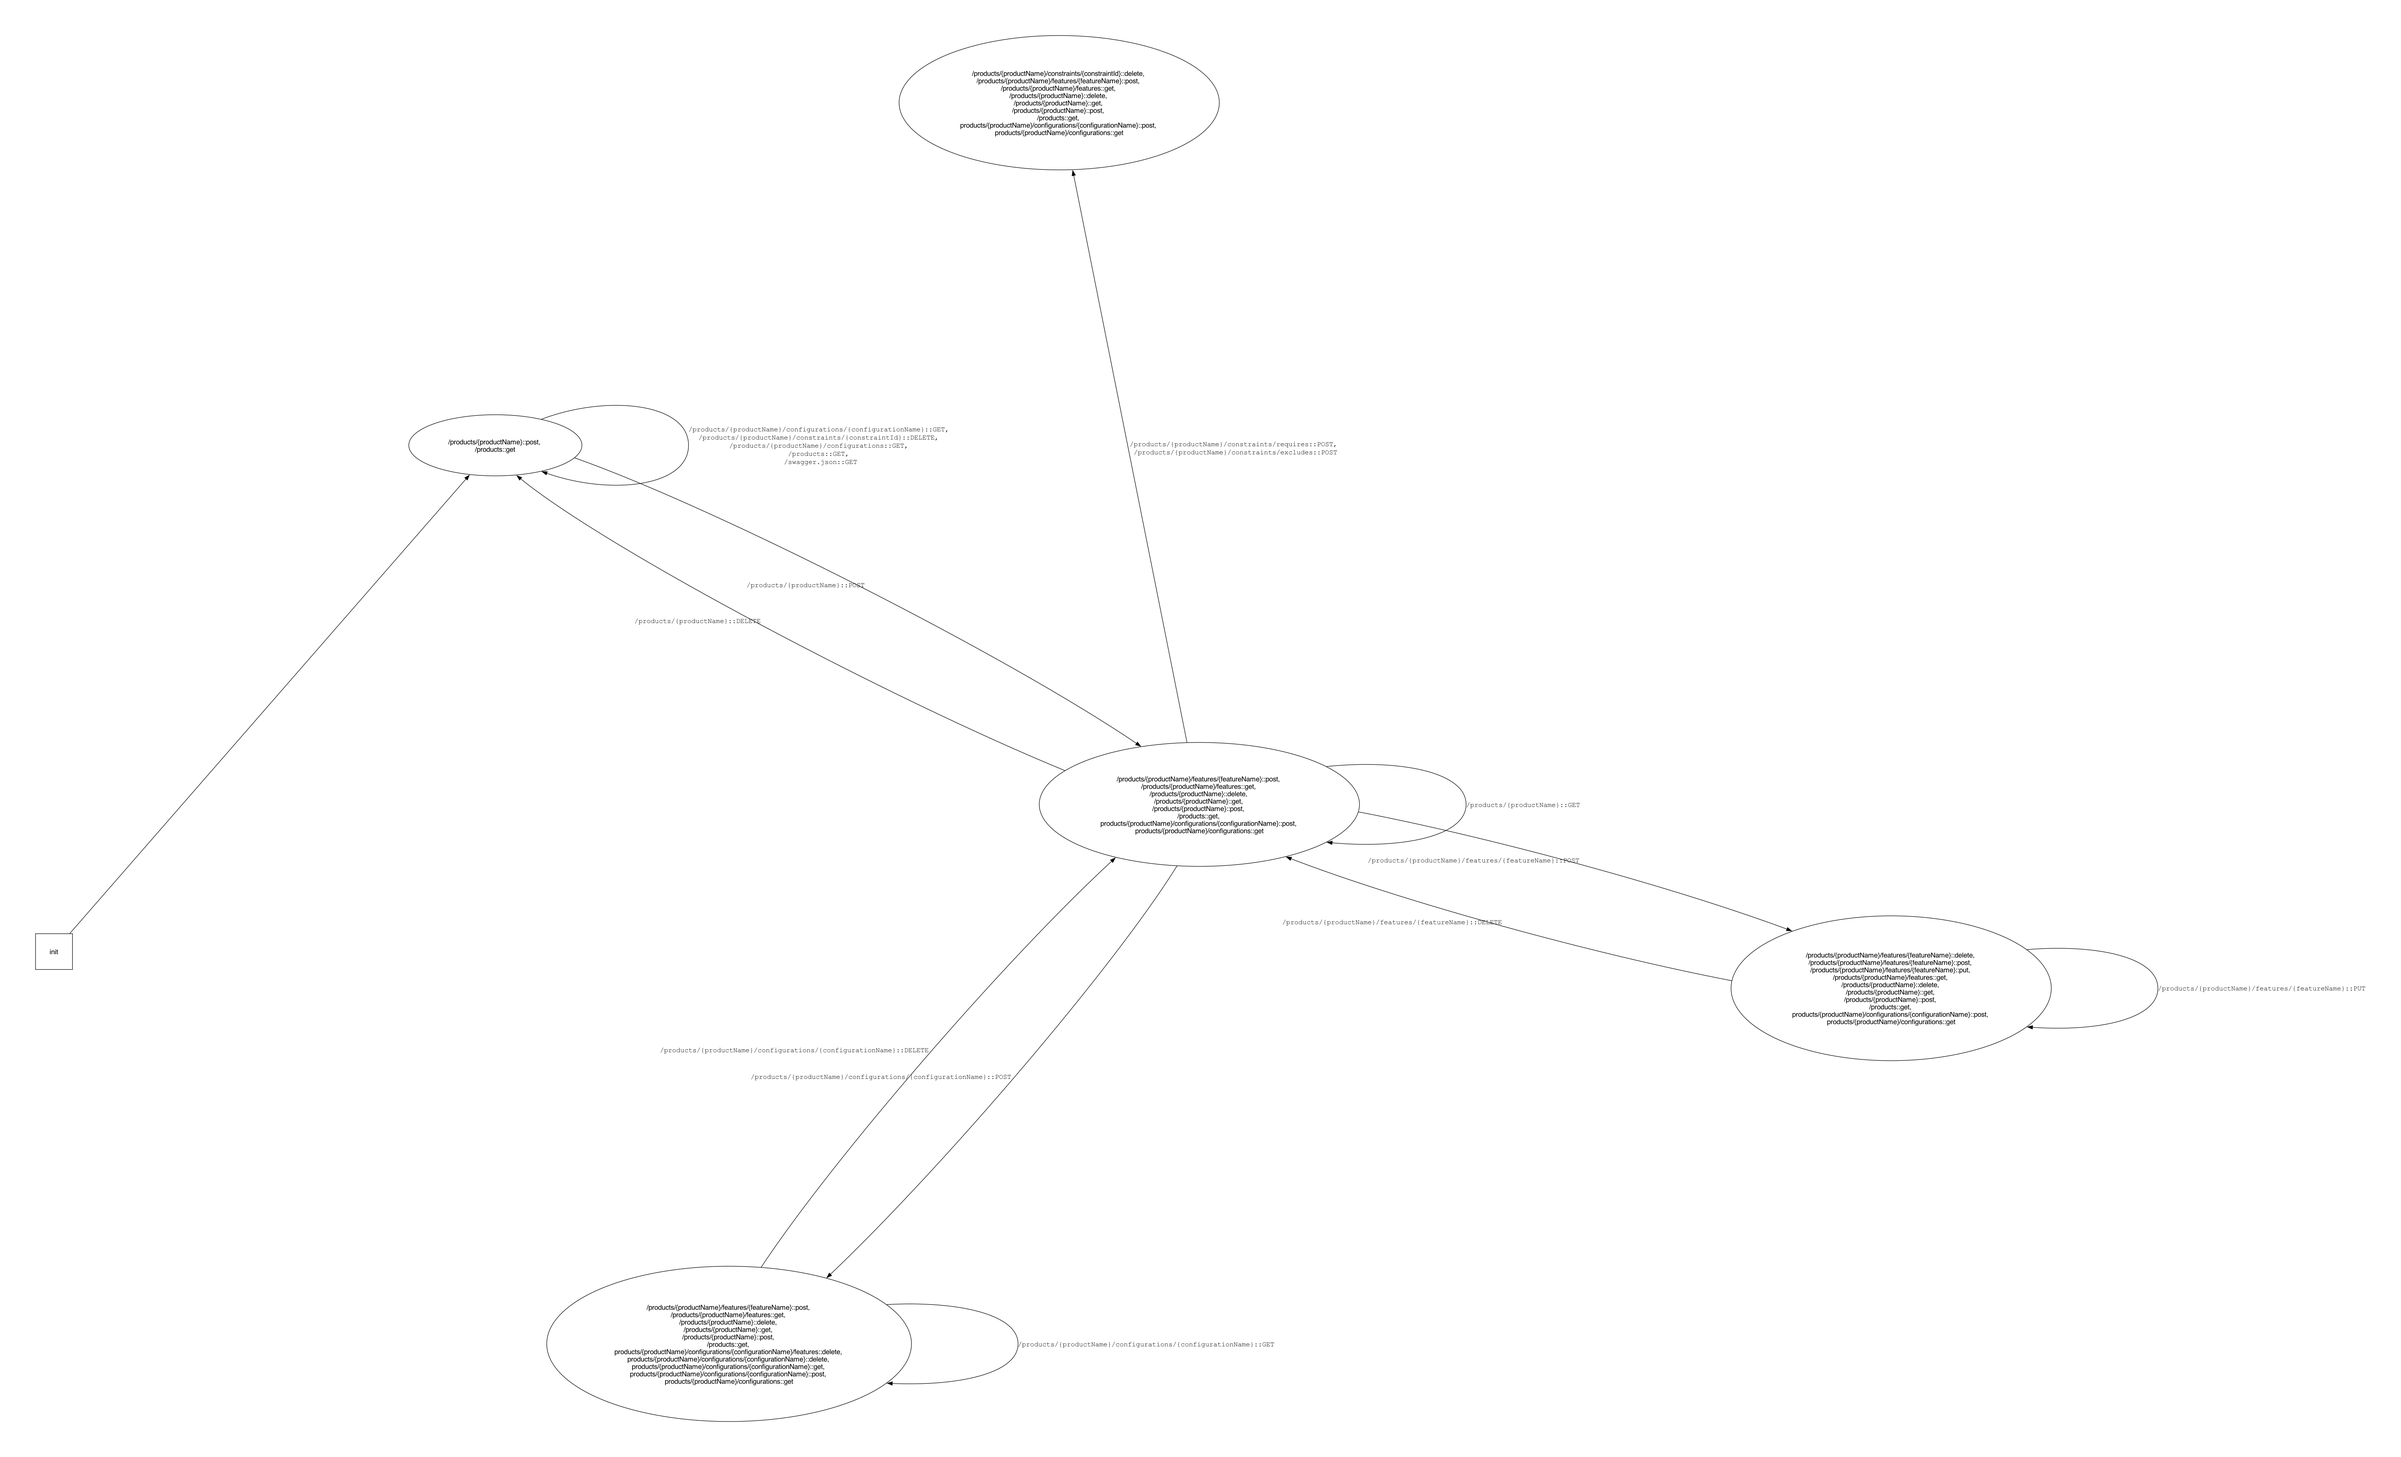
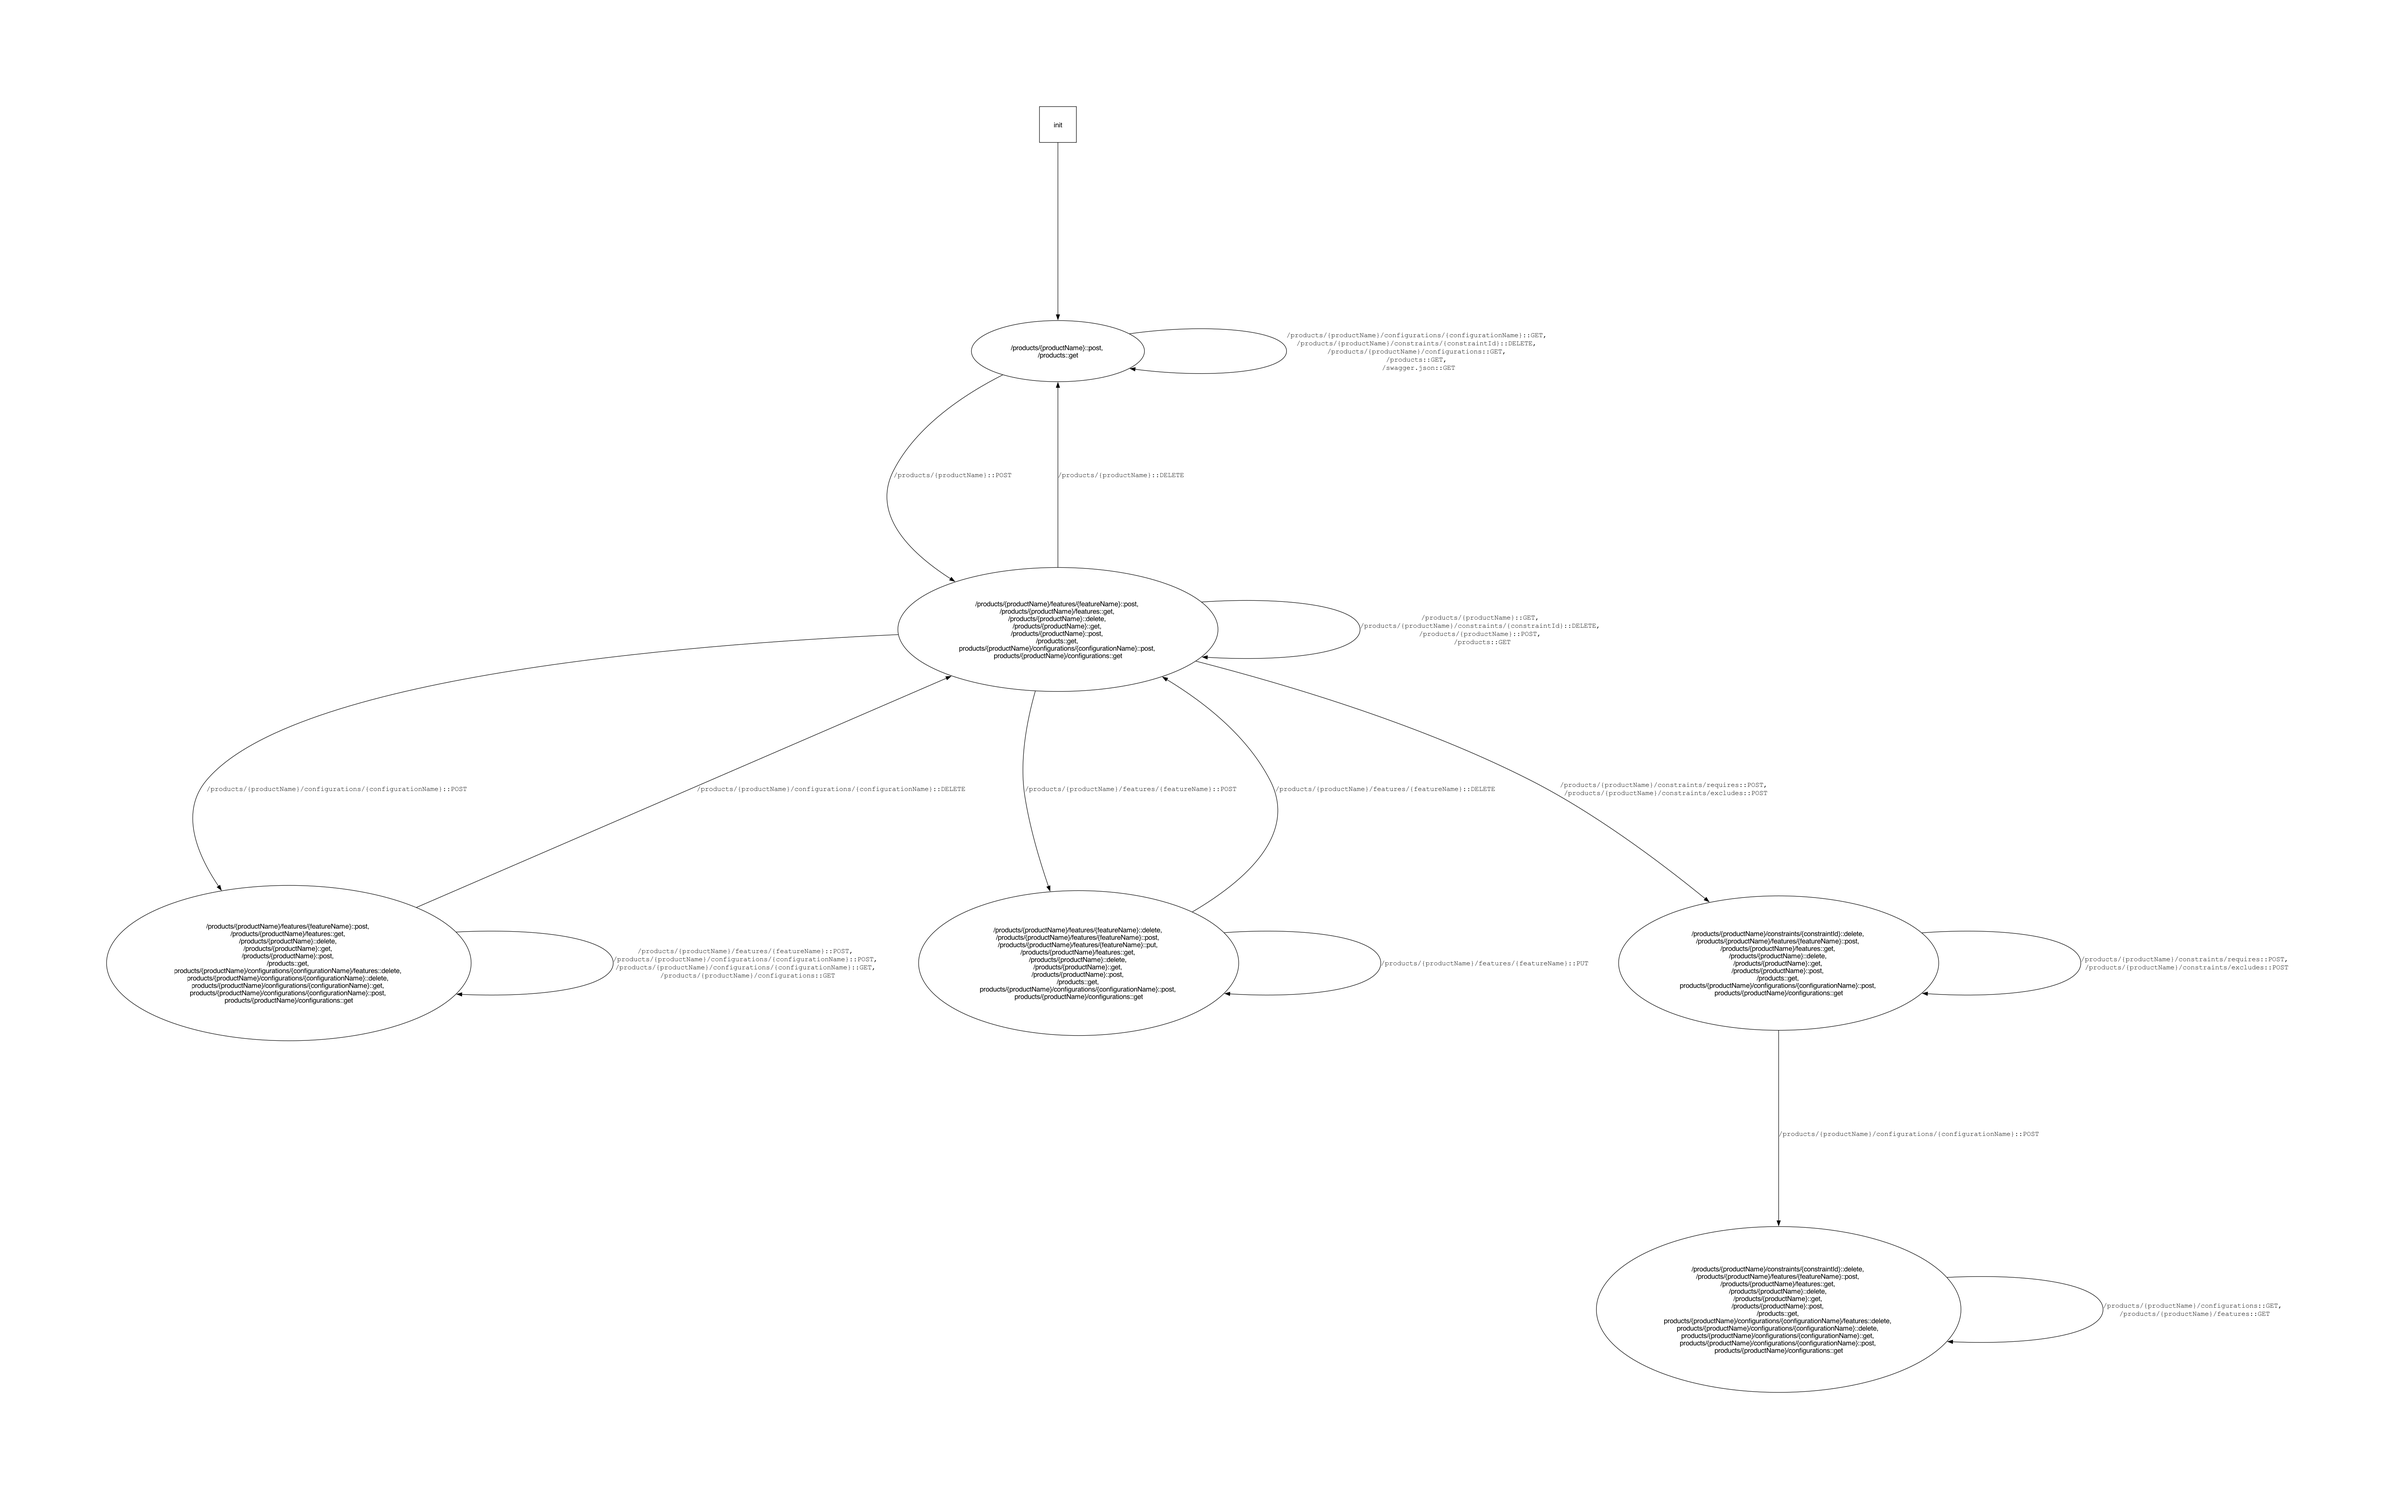
improved epa generation

diff --git a/core/src/main/kotlin/org/evomaster/core/output/service/EpaWriter.kt b/core/src/main/kotlin/org/evomaster/core/output/service/EpaWriter.kt
@@ -13,23 +13,21 @@ class EpaWriter {
         for (i in solution.individuals) {
             var previousVertex = Vertex(false, 0, "")
             var currentVertex: Vertex
-            for (r in i.results) {
-                if (r is RestCallResult) {
-                    val rcr: RestCallResult = r
-                    rcr.getInitialEnabledEndpoints()?.let {
-                        previousVertex = epa.createOrGetVertex(it, true)
-                    }
-                    val code = rcr.getStatusCode()
-                    if (code != null && code < 400) { // we only want what happens after the action if it is a valid action
-                        //we could also add a check if the action just executed is enabled?
-                        val enabled = rcr.getEnabledEndpointsAfterAction()
-                        if (enabled?.enabledRestActions != null && enabled.associatedRestAction != null) {
-                            currentVertex = epa.createOrGetVertex(enabled.enabledRestActions)
-                            epa.addDirectedEdge(previousVertex, currentVertex, enabled.associatedRestAction)
-                            previousVertex = currentVertex
-                        } else {
-                            break // because of failed http requests we are missing one or more necessary elements to build the epa
-                        }
+            val restCallResults = i.results.filterIsInstance<RestCallResult>()
+            for (rcr in restCallResults) {
+                rcr.getInitialEnabledEndpoints()?.let {
+                    previousVertex = epa.createOrGetVertex(it, true)
+                }
+                val code = rcr.getStatusCode()
+                if (code != null && code < 400) { // we only want what happens after the action if it is a valid action
+                    //we could also add a check if the action just executed is enabled?
+                    val enabled = rcr.getEnabledEndpointsAfterAction()
+                    if (enabled?.enabledRestActions != null && enabled.associatedRestAction != null) {
+                        currentVertex = epa.createOrGetVertex(enabled.enabledRestActions)
+                        epa.addDirectedEdge(previousVertex, currentVertex, enabled.associatedRestAction)
+                        previousVertex = currentVertex
+                    } else {
+                        break // because of failed http requests we are missing one or more necessary elements to build the epa
                     }
                 }
             }

diff --git a/core/src/main/kotlin/org/evomaster/core/epa/EPA.kt b/core/src/main/kotlin/org/evomaster/core/epa/EPA.kt
@@ -10,11 +10,8 @@ class EPA {
     private val adjacencyMap = mutableMapOf<Vertex, MutableList<Edge>>()
 
     private val graphHeader = "digraph {\n" +
-            "splines=spline\n" +
-            "splines=true\n" +
-            "layout=\"sfdp\"\n" +
             "beautify=true\n" +
-            "graph [pad=\"1\", nodesep=\"3\", ranksep=\"4\"]\n" +
+            "graph [pad=\"3\", nodesep=\"4\", ranksep=\"5\"]\n" +
             "node [ margin=0.4 fontname=Helvetica ]\n" +
             "edge [fontname=Courier fontsize=14]\n" +
             "init [shape=box]"
